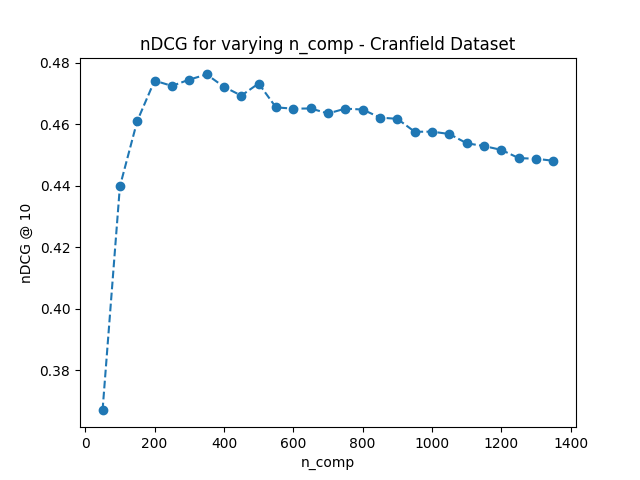
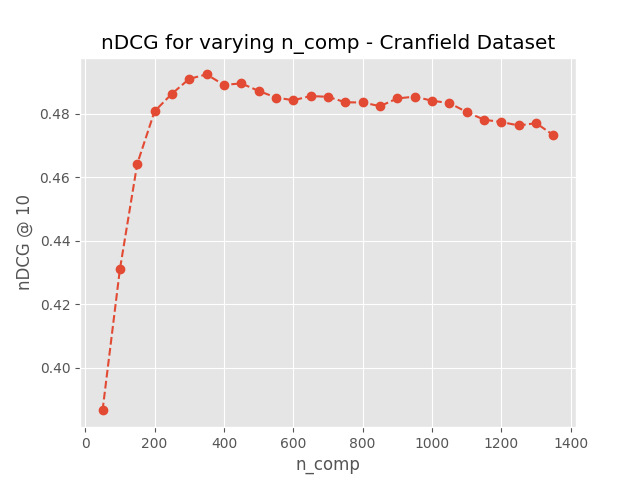
more commits

diff --git a/analysis.py b/analysis.py
@@ -10,8 +10,10 @@ from multiprocessing import cpu_count
 from joblib import delayed, Parallel
 import argparse
 import json
+import numpy as np
 import matplotlib.pyplot as plt
 from time import time
+plt.style.use("ggplot")
 
 
 n_jobs = cpu_count()
@@ -81,6 +83,7 @@ class SearchEngine:
 		json.dump(queries, open(f"{self.args.out_folder}tokenized_queries.txt", 'w'))
 		if self.args.spellcheck:
 			# correct queries
+			print("running spellcheck")
 			queries = Parallel(n_jobs=n_jobs)(delayed(self.checkSpelling)(query) for query in queries)
 			json.dump(queries, open(f"{self.args.out_folder}corrected_queries.txt", 'w'))
 		# Stem/Lemmatize queries
@@ -138,12 +141,12 @@ class SearchEngine:
 		processedDocs = self.preprocessDocs(docs)
 		print("docs pre-processed!")
 
-		nDCGs, best_nDCG, best_n_comp = [], 0, 50
 		qrels = json.load(open(f"{args.dataset}cran_qrels.json", 'r'))
 
 		#---------------------------------------------------------------------------------------------------------------------------#
 
 		## Plot nDCG for Different n_comp ##
+		nDCGs, best_nDCG, best_n_comp = [], 0, 50
 		for n_comp in range(50, doc_ids[-1], 50):
 			print(f"running LSA with n_comp={n_comp};", end=' ')
 			start = time()
@@ -209,57 +212,28 @@ class SearchEngine:
 			print(f"[LSA] MAP, nDCG @ {k} : {MAP:.4f}, {nDCG:.4f}")
 
 		# Plot the metrics and save plot 
-		plt.plot(precisions_vsm, label="Precision_VSM", linestyle="dashed", color='b')
-		plt.plot(precisions_lsa, label="Precision_LSA", color='b')
-		plt.plot(recalls_vsm, label="Recall_VSM", linestyle="dashed", color='r')
-		plt.plot(recalls_lsa, label="Recall_LSA", color='r')
-		plt.plot(fscores_vsm, label="F-Score_VSM", linestyle="dashed", color='g')
-		plt.plot(fscores_lsa, label="F-Score_LSA", color='g')
-		plt.plot(MAPs_vsm, label="MAP_VSM", linestyle="dashed", color='m')
-		plt.plot(MAPs_lsa, label="MAP_LSA", color='m')
-		plt.plot(nDCGs_vsm, label="nDCG_VSM", linestyle="dashed", color='k')
-		plt.plot(nDCGs_lsa, label="nDCG_LSA", color='k')
+		plt.plot(range(1, 11), precisions_vsm, label="Precision_VSM", linestyle="dashed", color='b')
+		plt.plot(range(1, 11), precisions_lsa, label="Precision_LSA", color='b')
+		plt.plot(range(1, 11), recalls_vsm, label="Recall_VSM", linestyle="dashed", color='r')
+		plt.plot(range(1, 11), recalls_lsa, label="Recall_LSA", color='r')
+		plt.plot(range(1, 11), fscores_vsm, label="F-Score_VSM", linestyle="dashed", color='g')
+		plt.plot(range(1, 11), fscores_lsa, label="F-Score_LSA", color='g')
+		plt.plot(range(1, 11), MAPs_vsm, label="MAP_VSM", linestyle="dashed", color='m')
+		plt.plot(range(1, 11), MAPs_lsa, label="MAP_LSA", color='m')
+		plt.plot(range(1, 11), nDCGs_vsm, label="nDCG_VSM", linestyle="dashed", color='k')
+		plt.plot(range(1, 11), nDCGs_lsa, label="nDCG_LSA", color='k')
 		plt.title("VSM vs LSA - Evaluation Metrics - Cranfield Dataset")
 		plt.xlabel("k")
+		plt.xticks(np.arange(1, 11, step=1))
+		plt.yticks(np.arange(0, 0.75, step=0.05))
 		plt.legend(bbox_to_anchor=(1.04, 0.5), 
 				   loc="center left", 
 				   borderaxespad=0)
-		plt.savefig(f"{args.out_folder}vsm_lsa_comparison_plot.png",
+		plt.savefig(f"{args.out_folder}vsm_lsa_comparison.png",
 					bbox_inches="tight")
 		plt.show()
 
-		
-	def handleCustomQuery(self):
-		"""
-		Take a custom query as input and return top five relevant documents
-		"""
-
-		#Get query
-		print("Enter query below")
-		query = input()
-		# Process documents
-		processedQuery = self.preprocessQueries([query])[0]
-		print("queries pre-preprocessed!")
-
-		# Read documents
-		docs_json = json.load(open(f"{args.dataset}cran_docs.json", 'r'))
-		doc_ids, docs = [item["id"] for item in docs_json], \
-						[item["body"] for item in docs_json]
-		# Process documents
-		processedDocs = self.preprocessDocs(docs)
-		print("docs pre-preprocessed!")
-
-		# Build document index
-		self.informationRetriever.buildIndexWithSVD(processedDocs, doc_ids, n_comp=350)
-		# Rank the documents for the query
-		doc_IDs_ordered = self.informationRetriever.rank([processedQuery])[0]
-
-		# Print the IDs of first five documents
-		print("\nTop five document IDs : ")
-		for id in doc_IDs_ordered[:5]:
-			print(id)
-
-
+	
 if __name__ == "__main__":
 
 	# Create an argument parser
@@ -274,19 +248,9 @@ if __name__ == "__main__":
 	                    help = "Sentence Segmenter Type [naive|punkt]")
 	parser.add_argument('-tokenizer',  default = "ptb",
 	                    help = "Tokenizer Type [naive|ptb]")
-	parser.add_argument('-custom', action = "store_true", 
-						help = "Take custom query as input")
 	parser.add_argument("-spellcheck", action="store_true",
 						help = "Use SpellCheck ")
 	
-	# Parse the input arguments
 	args = parser.parse_args()
+	SearchEngine(args).evaluateDataset()
 
-	# Create an instance of the Search Engine
-	searchEngine = SearchEngine(args)
-
-	# Either handle query from user or evaluate on the complete dataset 
-	if args.custom:
-		searchEngine.handleCustomQuery()
-	else:
-		searchEngine.evaluateDataset()

diff --git a/informationRetrieval_VSM.py b/informationRetrieval_VSM.py
@@ -1,5 +1,7 @@
+import enum
 import numpy as np
 from numpy.linalg import norm
+from sys import exit
 
 class InformationRetrieval():
 
@@ -45,8 +47,8 @@ class InformationRetrieval():
         # compute tf for each word wrt to each document
         index = np.zeros((len(unique_words), N))
 
-        for idx in docIDs:
-            for sent in docs[idx]:
+        for idx, doc in enumerate(docs):
+            for sent in doc:
                 for word in sent:
                     word = word.lower()
                     if '-' in word:
@@ -55,11 +57,11 @@ class InformationRetrieval():
                     else:
                         index[postings[word]][idx] += 1
 
-        # compute idf of each word
+        # compute idf of each word with smoothening
         idf = np.zeros(len(unique_words))
         for i, word in enumerate(unique_words):
             n = index[postings[word]].sum()
-            idf[i] = np.log((N + 1)/(n + 1))
+            idf[i] = np.log((N + 1)/(n + 1)) + 1
 
         idf = idf.reshape(-1, 1)
         # w = tf * idf

diff --git a/informationRetrieval_LSA.py b/informationRetrieval_LSA.py
@@ -50,10 +50,11 @@ class InformationRetrieval():
                     else:
                         index[postings[word]][idx] += 1
 
+        # compute idf with smoothening
         idf = np.zeros(len(unique_words))
         for i, word in enumerate(unique_words):
             n = index[postings[word]].sum()
-            idf[i] = np.log((N + 1)/(n + 1))
+            idf[i] = np.log((N + 1)/(n + 1)) + 1
 
         idf = idf.reshape(-1, 1)
         index *= idf
